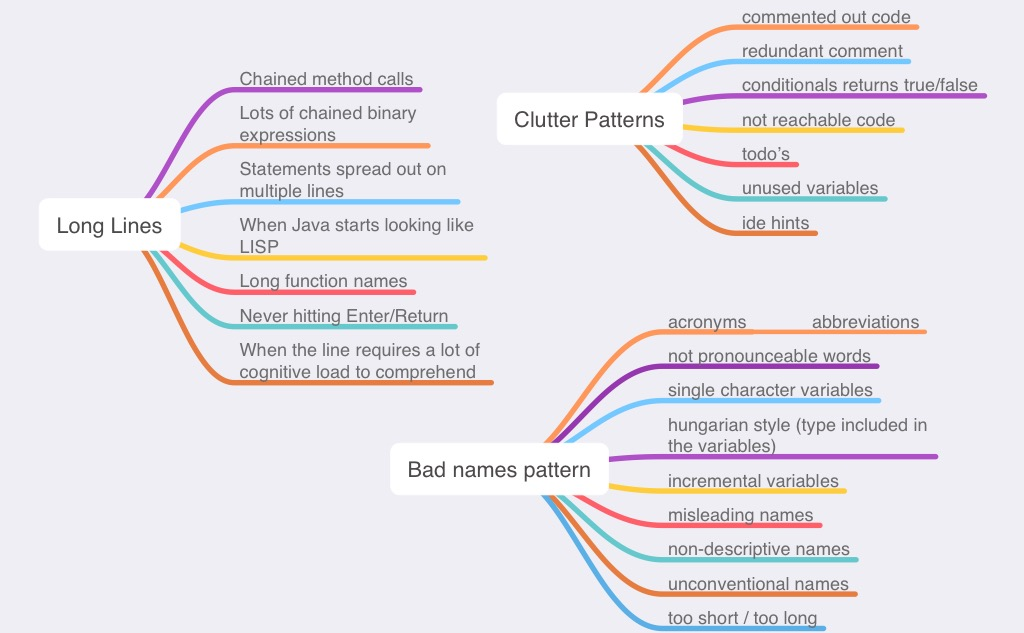
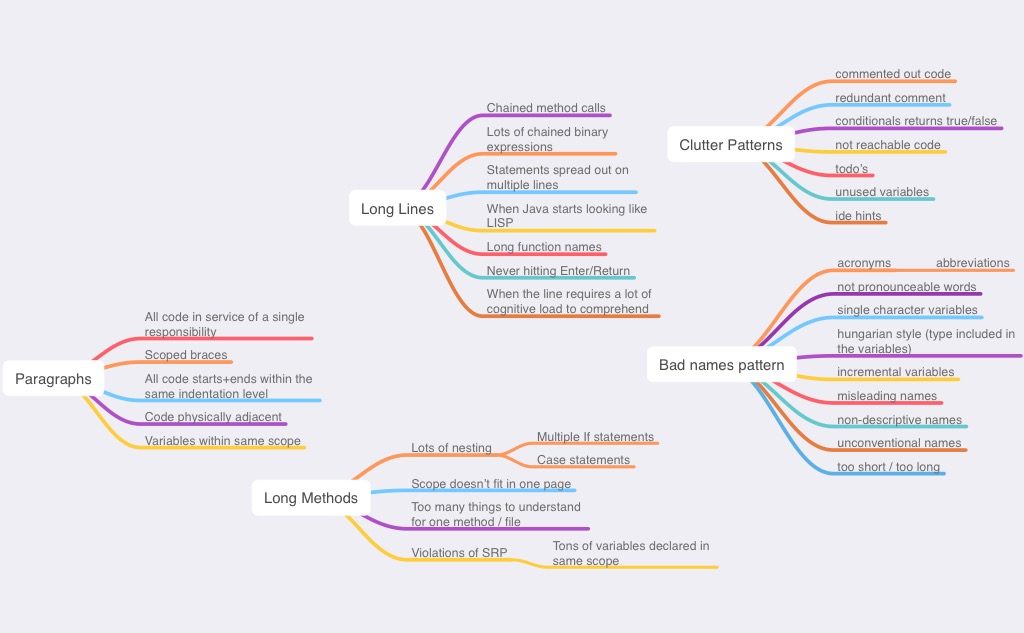
Refactoring Long Methods

Changed region(s): [[0.0312, 0.0, 1.0, 1.0], [0.25, 0.7804, 0.3438, 0.8104]]

diff --git a/src/org/chartsmart/ChartPanel.java b/src/org/chartsmart/ChartPanel.java
@@ -51,91 +51,119 @@ public class ChartPanel extends JPanel {
     }
 
     private void drawChart(Graphics g) {
-        if (chartType == BAR_CHART) {
-            if (chartMode.equals(SINGLE_MODE)) {
-                g.setColor(Color.RED);
-                g.fillRect(100, 90, getWidth() - 200, 420);
-            } else {
-                g.setColor(Color.BLACK);
-                g.fillRect(95, 95, 210, 210);
-            }
-        } else {
-            int x = 100;
-            int y = 100;
-            int width = 450;
-            if (chartMode.equals(SINGLE_MODE)) {
-                g.setColor(Color.BLUE);
-                g.fillOval(x, y, width, getHeight() - 150);
-            } else {
-                g.setColor(Color.BLUE);
-                g.fillOval(x, y, 225, 225);
-            }
-        }
+        setColorsAndFillShape(g);
         String[] barChartText = null;
         List<String> specialData = new ArrayList<>();
-        String[] pieChartText = new String[0];
-        String SMALL = "Small";
         if (chartType == BAR_CHART) {
-            if (chartMode.equals(SINGLE_MODE)) {
-                barChartText = new String[1];
-                barChartText[0] = "Bar Chart";
-            } else {
-                barChartText = new String[2];
-                barChartText[0] = "Bar Chart";
-                barChartText[1] = SMALL;
-            }
+            barChartText = drawBarChart();
+            fillRectangleForBarChart(g, barChartText);
         } else {
-            if (chartMode.equals(SINGLE_MODE)) {
-                specialData.add("Pie Chart");
-            } else {
-                pieChartText = new String[2];
-                pieChartText[0] = "Pie Chart";
-                pieChartText[1] = SMALL;
-            }
+            String[] pieChartText = new String[0];
+            pieChartText = setPieChartText(specialData, pieChartText);
+            setColorFontAndDrawString(g, specialData, pieChartText);
         }
-        if (chartType == BAR_CHART) {
-            if (chartMode.equals("shareddisplay")) {
-                if (barChartText != null) {
-                    g.setColor(Color.CYAN);
-                    int bottomY = 300;
-                    g.fillRect(100, bottomY - 100, BAR_WIDTH, 100);
-                    g.fillRect(140, bottomY - 200, BAR_WIDTH, 200);
-                    g.fillRect(180, bottomY - 150, BAR_WIDTH, 150);
-                    g.fillRect(220, bottomY - 125, BAR_WIDTH, 125);
-                    g.fillRect(260, bottomY - 170, BAR_WIDTH, 170);
-                    g.setColor(Color.RED);
-                    g.setFont(new Font("Arial Black", Font.BOLD, 25));
-                    g.drawString(barChartText[0], 130, 250);
-                    g.drawString(barChartText[1], 130, 270);
-                }
-            } else {
-                int bottomY = 500;
-                g.setColor(Color.CYAN);
-                g.fillRect(112, bottomY - 200, WIDTH_OF_75, 200);
-                g.fillRect(187, bottomY - 400, WIDTH_OF_75, 400);
-                g.fillRect(262, bottomY - 300, WIDTH_OF_75, 300);
-                g.fillRect(337, bottomY - 250, WIDTH_OF_75, 250);
-                g.fillRect(412, bottomY - 340, WIDTH_OF_75, 340);
-                g.setColor(Color.BLACK);
-                g.setFont(new Font("Arial Black", Font.BOLD, 55));
-                g.drawString(barChartText[0], 130, 400);
-            }
-        } else {
-            if (chartMode.equals(SINGLE_MODE)) {
-                g.setColor(Color.WHITE);
-                g.setFont(new Font("Bookman Old Style", Font.BOLD, 55));
-                g.drawString(specialData.get(0), 200, 340);
-            } else {
-                g.setFont(new Font("Bookman Old Style", Font.BOLD, 30));
-                g.setColor(Color.WHITE);
-                g.drawString(pieChartText[0], 145, 205);
-                g.drawString(pieChartText[1], 170, 235);
-            }
-        }
+
         boolean chartTextFits = barChartText != null && ((barChartText.length ^ 0x54) == 50);
         boolean monthlyOrDaily = specialData.contains("Monthly") || getTitle().contains("daily");
         if (chartTextFits || monthlyOrDaily) {
                 repaint(200);
+        }
+    }
+
+    private String[] setPieChartText(List<String> specialData, String[] pieChartText) {
+        if (chartMode.equals(SINGLE_MODE)) {
+            specialData.add("Pie Chart");
+        } else {
+            pieChartText = new String[2];
+            pieChartText[0] = "Pie Chart";
+            pieChartText[1] = "Small";
+        }
+        return pieChartText;
+    }
+
+    private void setColorFontAndDrawString(Graphics g, List<String> specialData, String[] pieChartText) {
+        if (chartMode.equals(SINGLE_MODE)) {
+            g.setColor(Color.WHITE);
+            g.setFont(new Font("Bookman Old Style", Font.BOLD, 55));
+            g.drawString(specialData.get(0), 200, 340);
+        } else {
+            g.setFont(new Font("Bookman Old Style", Font.BOLD, 30));
+            g.setColor(Color.WHITE);
+            g.drawString(pieChartText[0], 145, 205);
+            g.drawString(pieChartText[1], 170, 235);
+        }
+    }
+
+    private void fillRectangleForBarChart(Graphics g, String[] barChartText) {
+        if (chartMode.equals("shareddisplay")) {
+            if (barChartText != null) {
+                g.setColor(Color.CYAN);
+                int bottomY = 300;
+                g.fillRect(100, bottomY - 100, BAR_WIDTH, 100);
+                g.fillRect(140, bottomY - 200, BAR_WIDTH, 200);
+                g.fillRect(180, bottomY - 150, BAR_WIDTH, 150);
+                g.fillRect(220, bottomY - 125, BAR_WIDTH, 125);
+                g.fillRect(260, bottomY - 170, BAR_WIDTH, 170);
+                g.setColor(Color.RED);
+                g.setFont(new Font("Arial Black", Font.BOLD, 25));
+                g.drawString(barChartText[0], 130, 250);
+                g.drawString(barChartText[1], 130, 270);
+            }
+        } else {
+            int bottomY = 500;
+            g.setColor(Color.CYAN);
+            g.fillRect(112, bottomY - 200, WIDTH_OF_75, 200);
+            g.fillRect(187, bottomY - 400, WIDTH_OF_75, 400);
+            g.fillRect(262, bottomY - 300, WIDTH_OF_75, 300);
+            g.fillRect(337, bottomY - 250, WIDTH_OF_75, 250);
+            g.fillRect(412, bottomY - 340, WIDTH_OF_75, 340);
+            g.setColor(Color.BLACK);
+            g.setFont(new Font("Arial Black", Font.BOLD, 55));
+            g.drawString(barChartText[0], 130, 400);
+        }
+    }
+
+    private String[] drawBarChart() {
+        String[] barChartText;
+        if (chartMode.equals(SINGLE_MODE)) {
+            barChartText = new String[1];
+            barChartText[0] = "Bar Chart";
+        } else {
+            barChartText = new String[2];
+            barChartText[0] = "Bar Chart";
+            barChartText[1] = "Small";
+        }
+        return barChartText;
+    }
+
+    private void setColorsAndFillShape(Graphics g) {
+        if (chartType == BAR_CHART) {
+            setColorsAndFillShapeForBarChart(g);
+        } else {
+            setColorsAndFillShapeForPieChart(g);
+        }
+    }
+
+    private void setColorsAndFillShapeForPieChart(Graphics g) {
+        int x = 100;
+        int y = 100;
+        int width = 450;
+        if (chartMode.equals(SINGLE_MODE)) {
+            g.setColor(Color.BLUE);
+            g.fillOval(x, y, width, getHeight() - 150);
+        } else {
+            g.setColor(Color.BLUE);
+            g.fillOval(x, y, 225, 225);
+        }
+    }
+
+    private void setColorsAndFillShapeForBarChart(Graphics g) {
+        if (chartMode.equals(SINGLE_MODE)) {
+            g.setColor(Color.RED);
+            g.fillRect(100, 90, getWidth() - 200, 420);
+        } else {
+            g.setColor(Color.BLACK);
+            g.fillRect(95, 95, 210, 210);
         }
     }
 }
